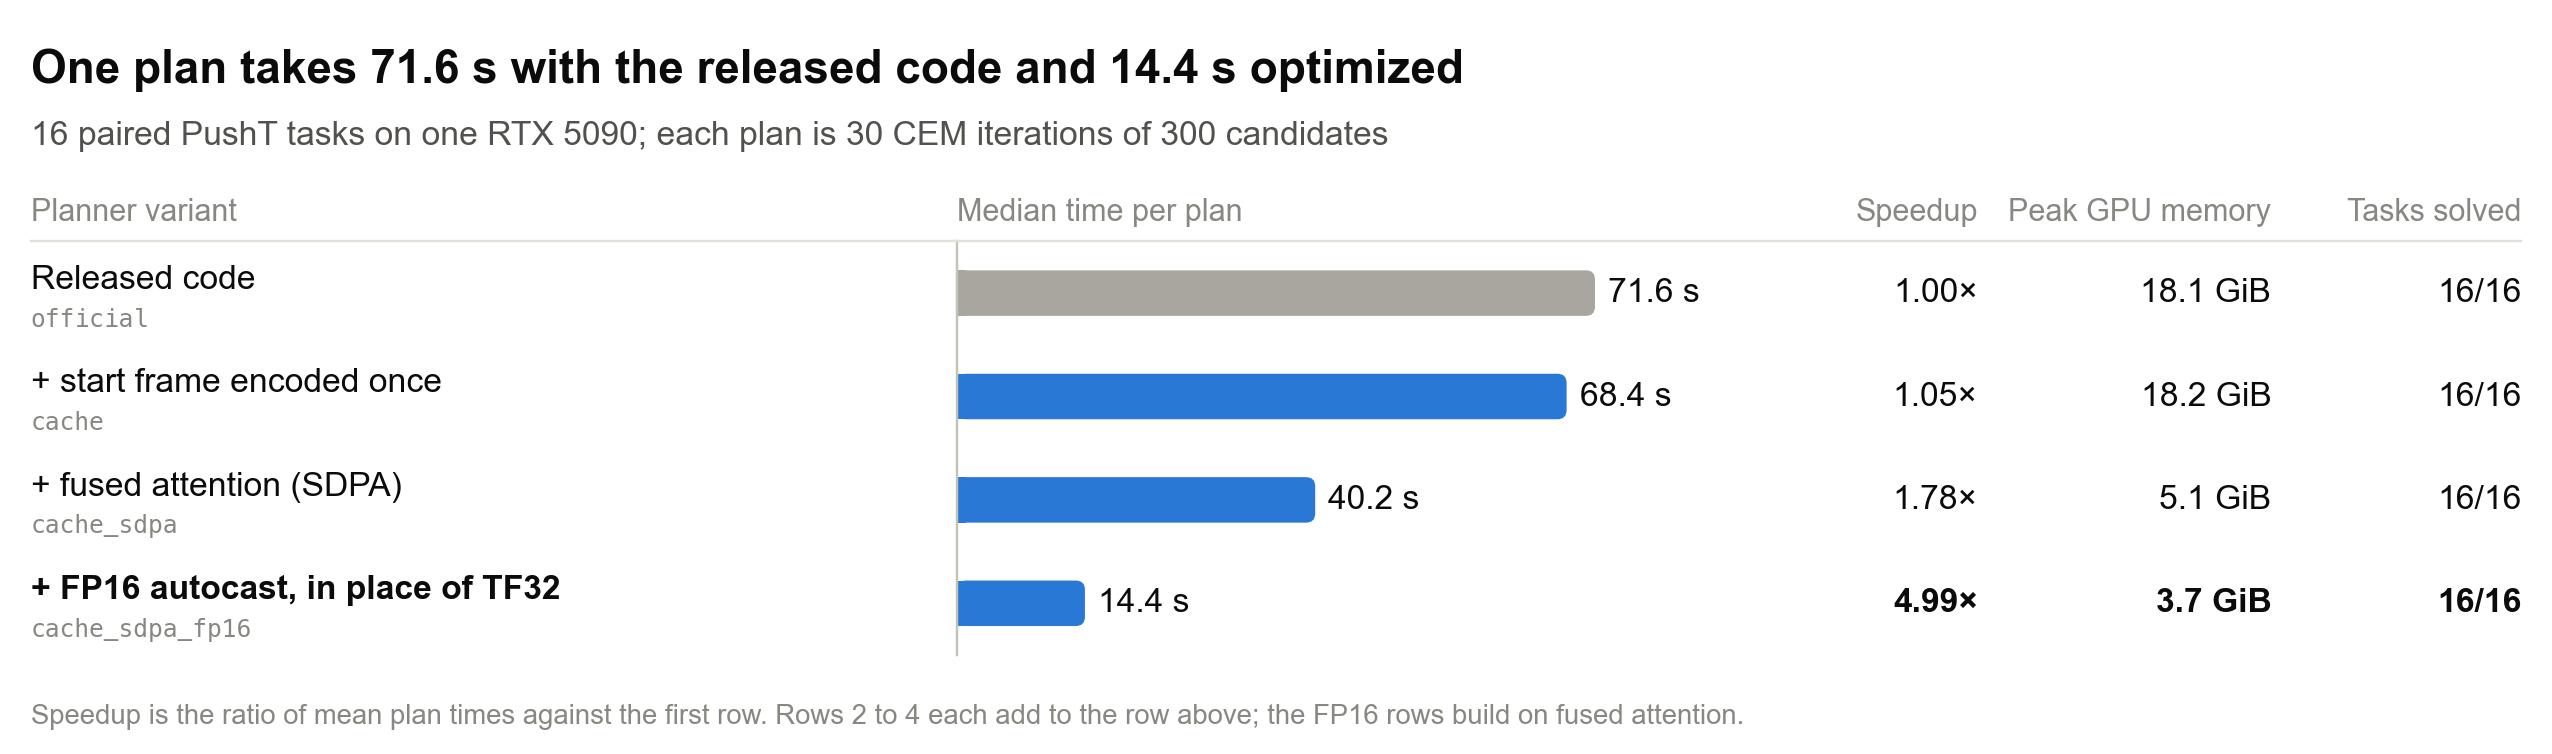
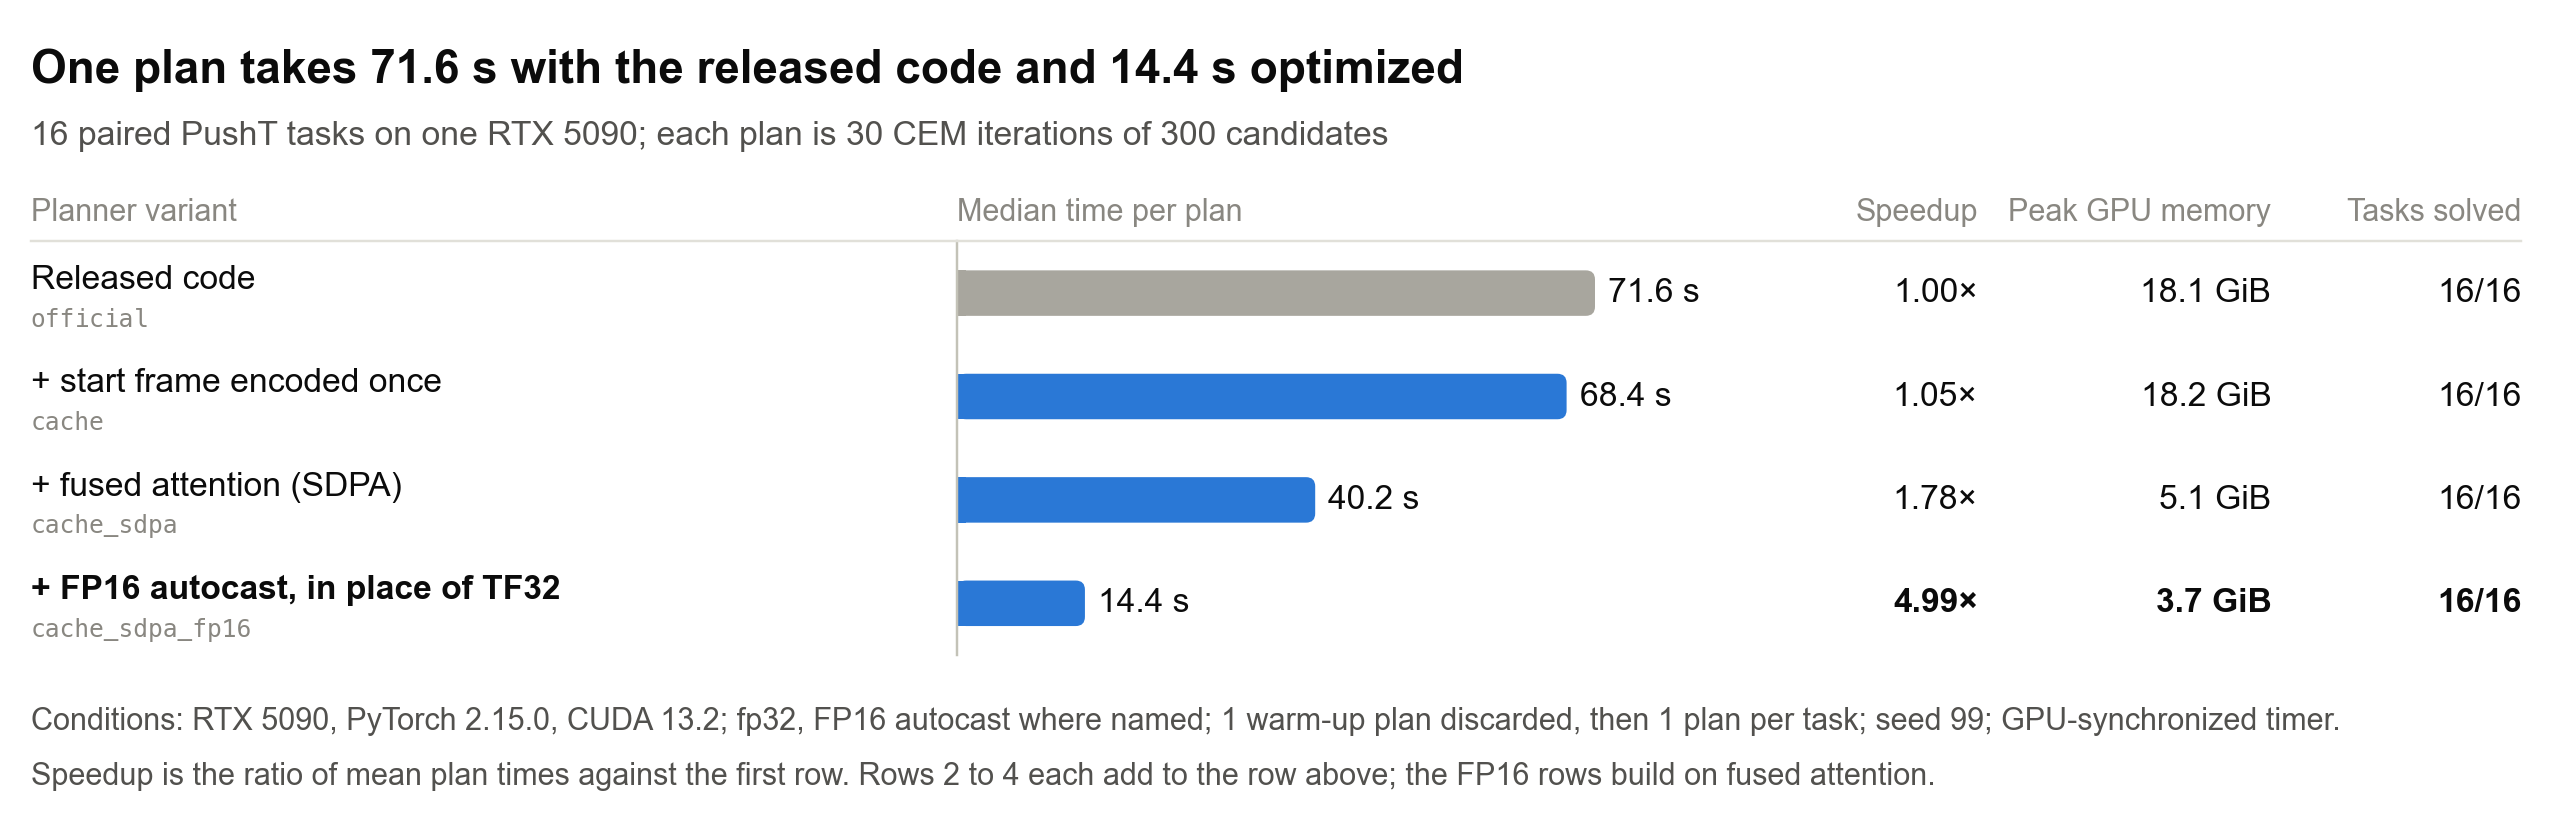
Results figure: state the measurement conditions under the table

diff --git a/bench/summarize.py b/bench/summarize.py
@@ -113,7 +113,7 @@ if V:
 
     # summary.png: one row per variant, read as a table with the plan time drawn as a bar
     names = list(V); n = len(names); best = min(V.values(), key=lambda v: v["latency_median_s"])
-    fig = plt.figure(figsize=(11.6, 1.55 + 0.47 * n)); H = fig.get_figheight(); top, bot = 1 - 1.1 / H, 0.45 / H
+    fig = plt.figure(figsize=(11.6, 1.85 + 0.47 * n)); H = fig.get_figheight(); top, bot = 1 - 1.1 / H, 0.75 / H
     ax = fig.add_axes([0.375, bot, 0.30, top - bot]); row = blended_transform_factory(fig.transFigure, ax.transData)
     hbars(ax, [V[k]["latency_median_s"] for k in names], [GRAY if V[k] is base else BLUE for k in names],
           lambda v: f"{v:.1f} s", 1.2 * max(V[k]["latency_median_s"] for k in names))
@@ -137,8 +137,12 @@ if V:
                  f"{sum(v['success'])}/{len(v['success'])}"]
         for (x, ha, _), text in zip(cols[2:], cells):
             ax.text(x, y, text, transform=row, ha=ha, va="center", fontweight=bold)
-    fig.text(0.012, 0.17 / H, "Speedup is the ratio of mean plan times against the first row."
-             + (" Rows 2 to 4 each add to the row above; the FP16 rows build on fused attention." if off else ""), fontsize=9, color=MUTED, va="center")
+    fig.text(0.012, 0.45 / H, f"Conditions: {gpu}, PyTorch {M['torch'].split('+')[0]}, CUDA {M['cuda']}; fp32, FP16 autocast where named; "
+             f"{M['warmup_plans']} warm-up plan discarded, then {M['repetitions']}; seed {M['seed']}; GPU-synchronized timer.",
+             fontsize=10, color=INK2, va="center")
+    fig.text(0.012, 0.2 / H, "Speedup is the ratio of mean plan times against the first row."
+             + (" Rows 2 to 4 each add to the row above; the FP16 rows build on fused attention." if off else ""),
+             fontsize=10, color=INK2, va="center")
     fig.savefig(path.with_name("summary.png")); plt.close(fig)
 
 print("\nRollout vs the official rollout on identical inputs (one task, all candidates):\n")
